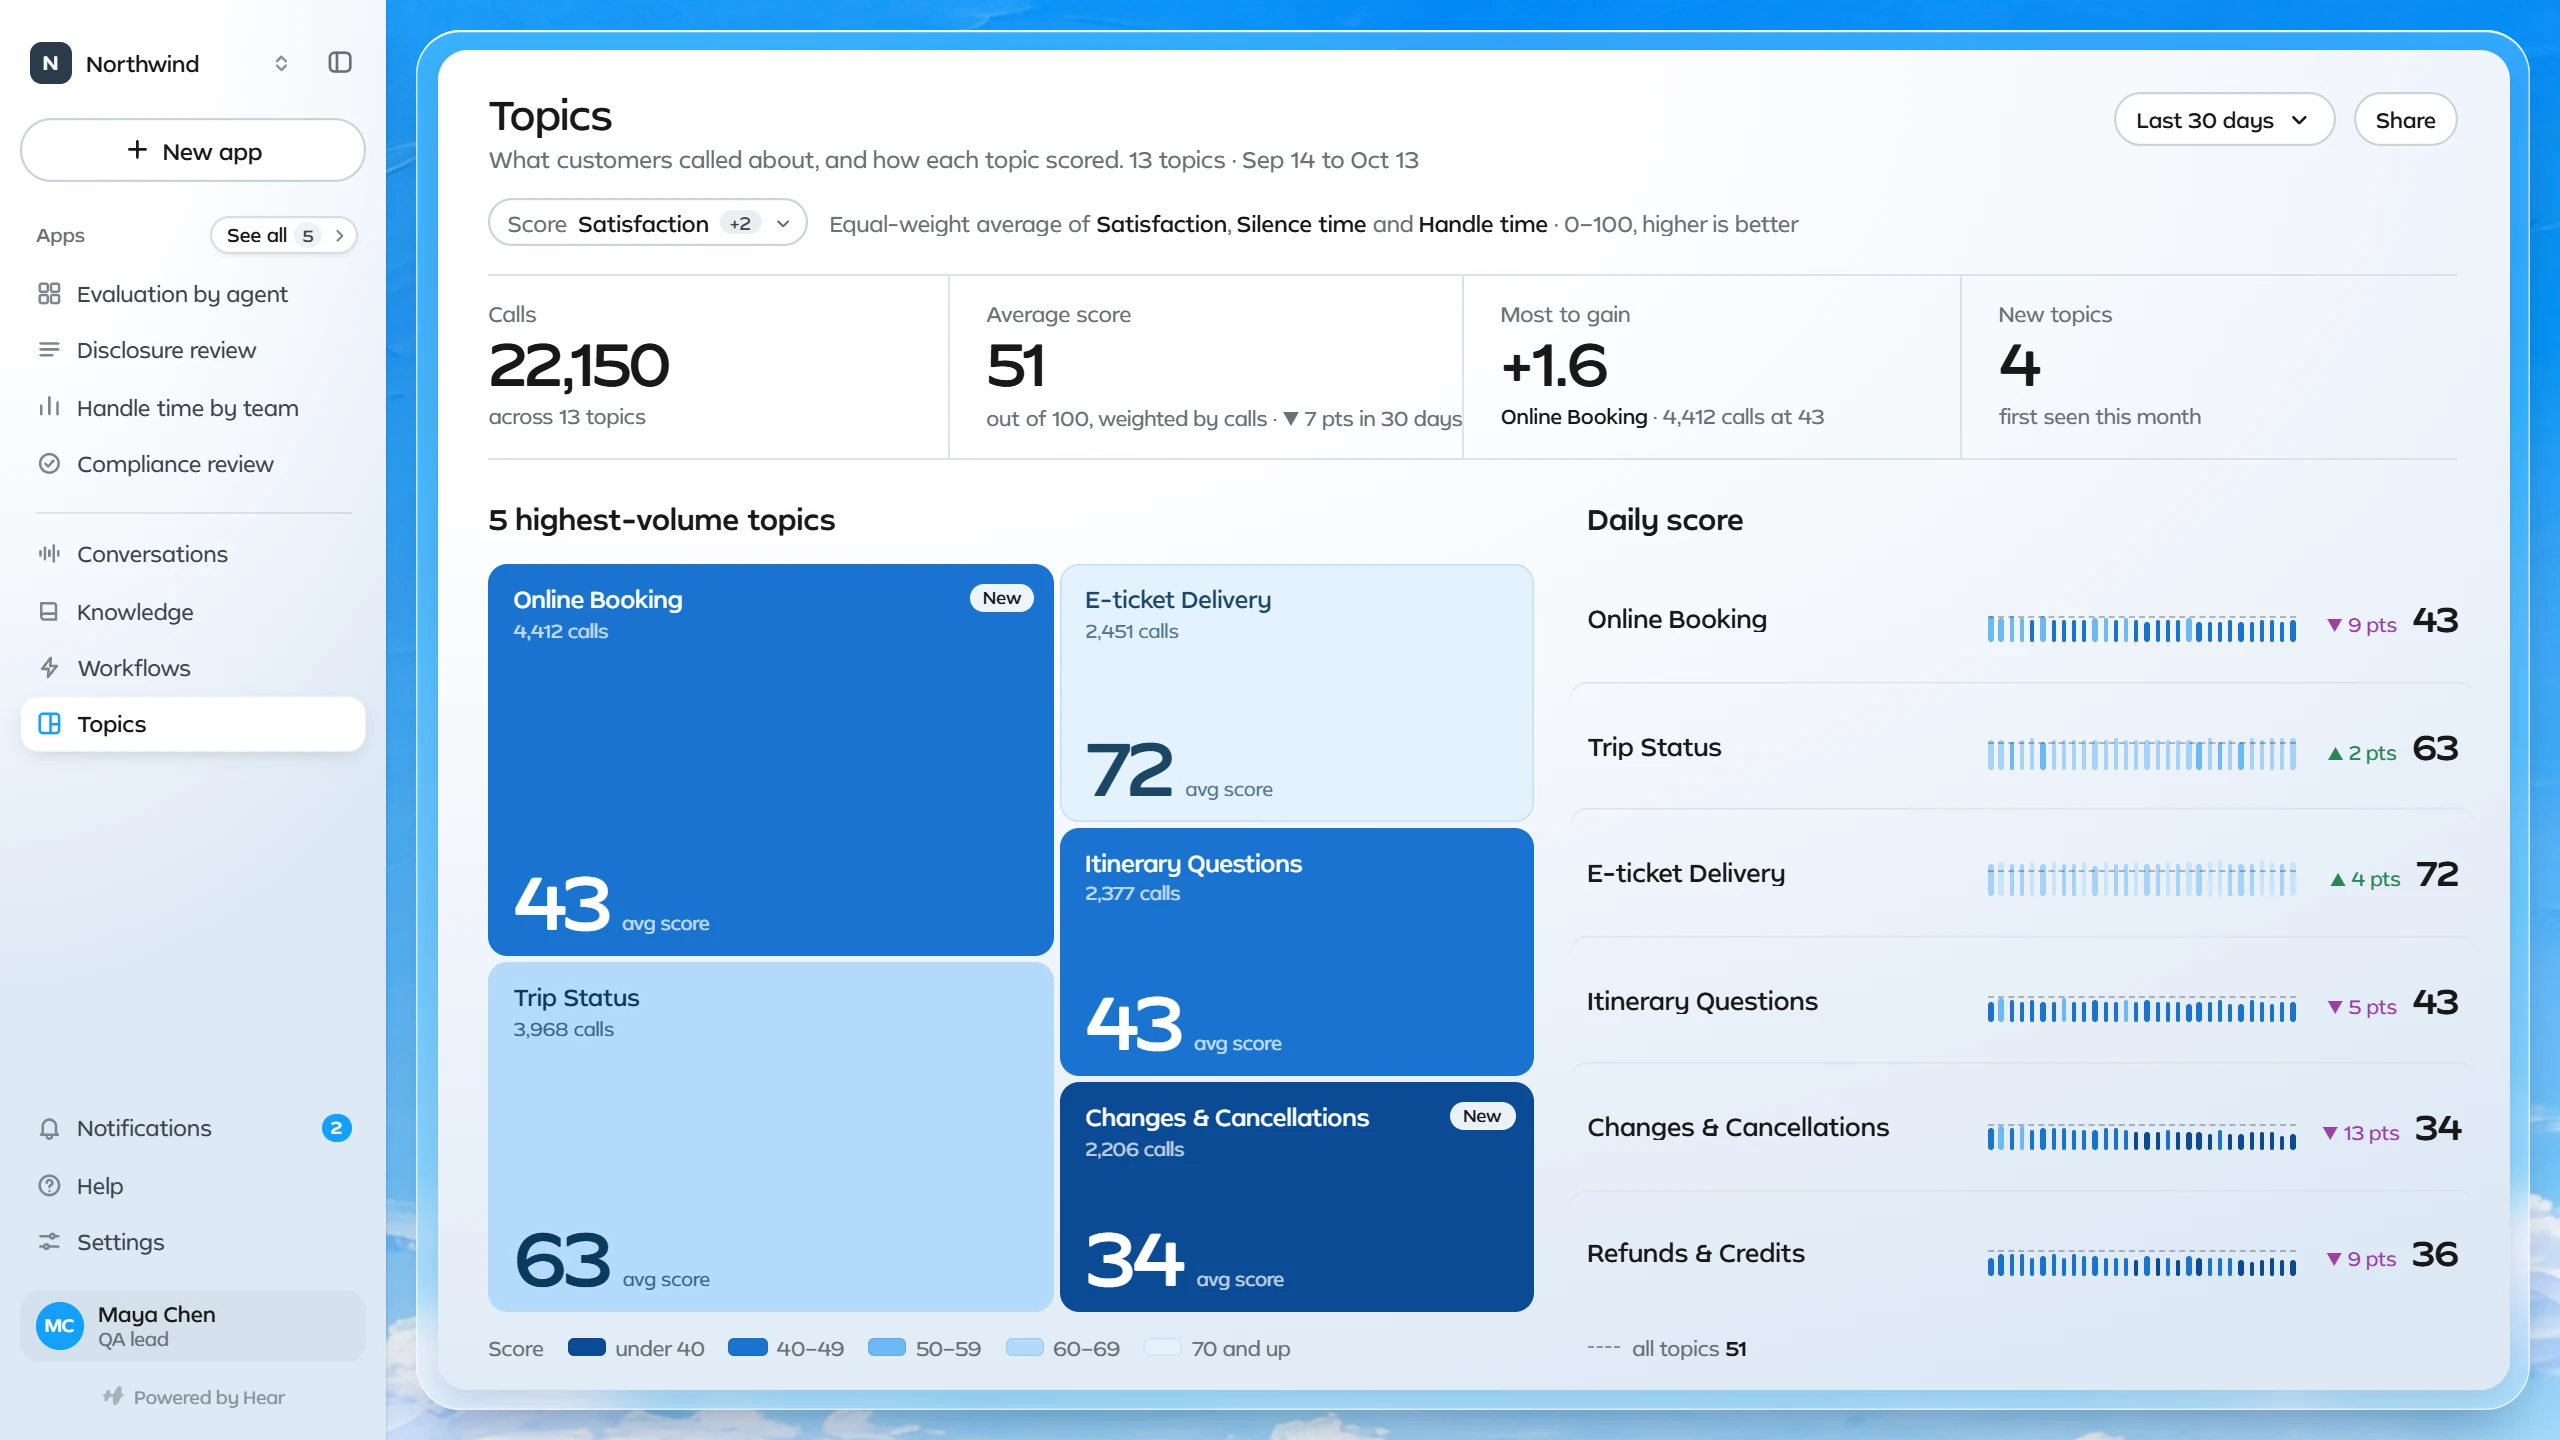
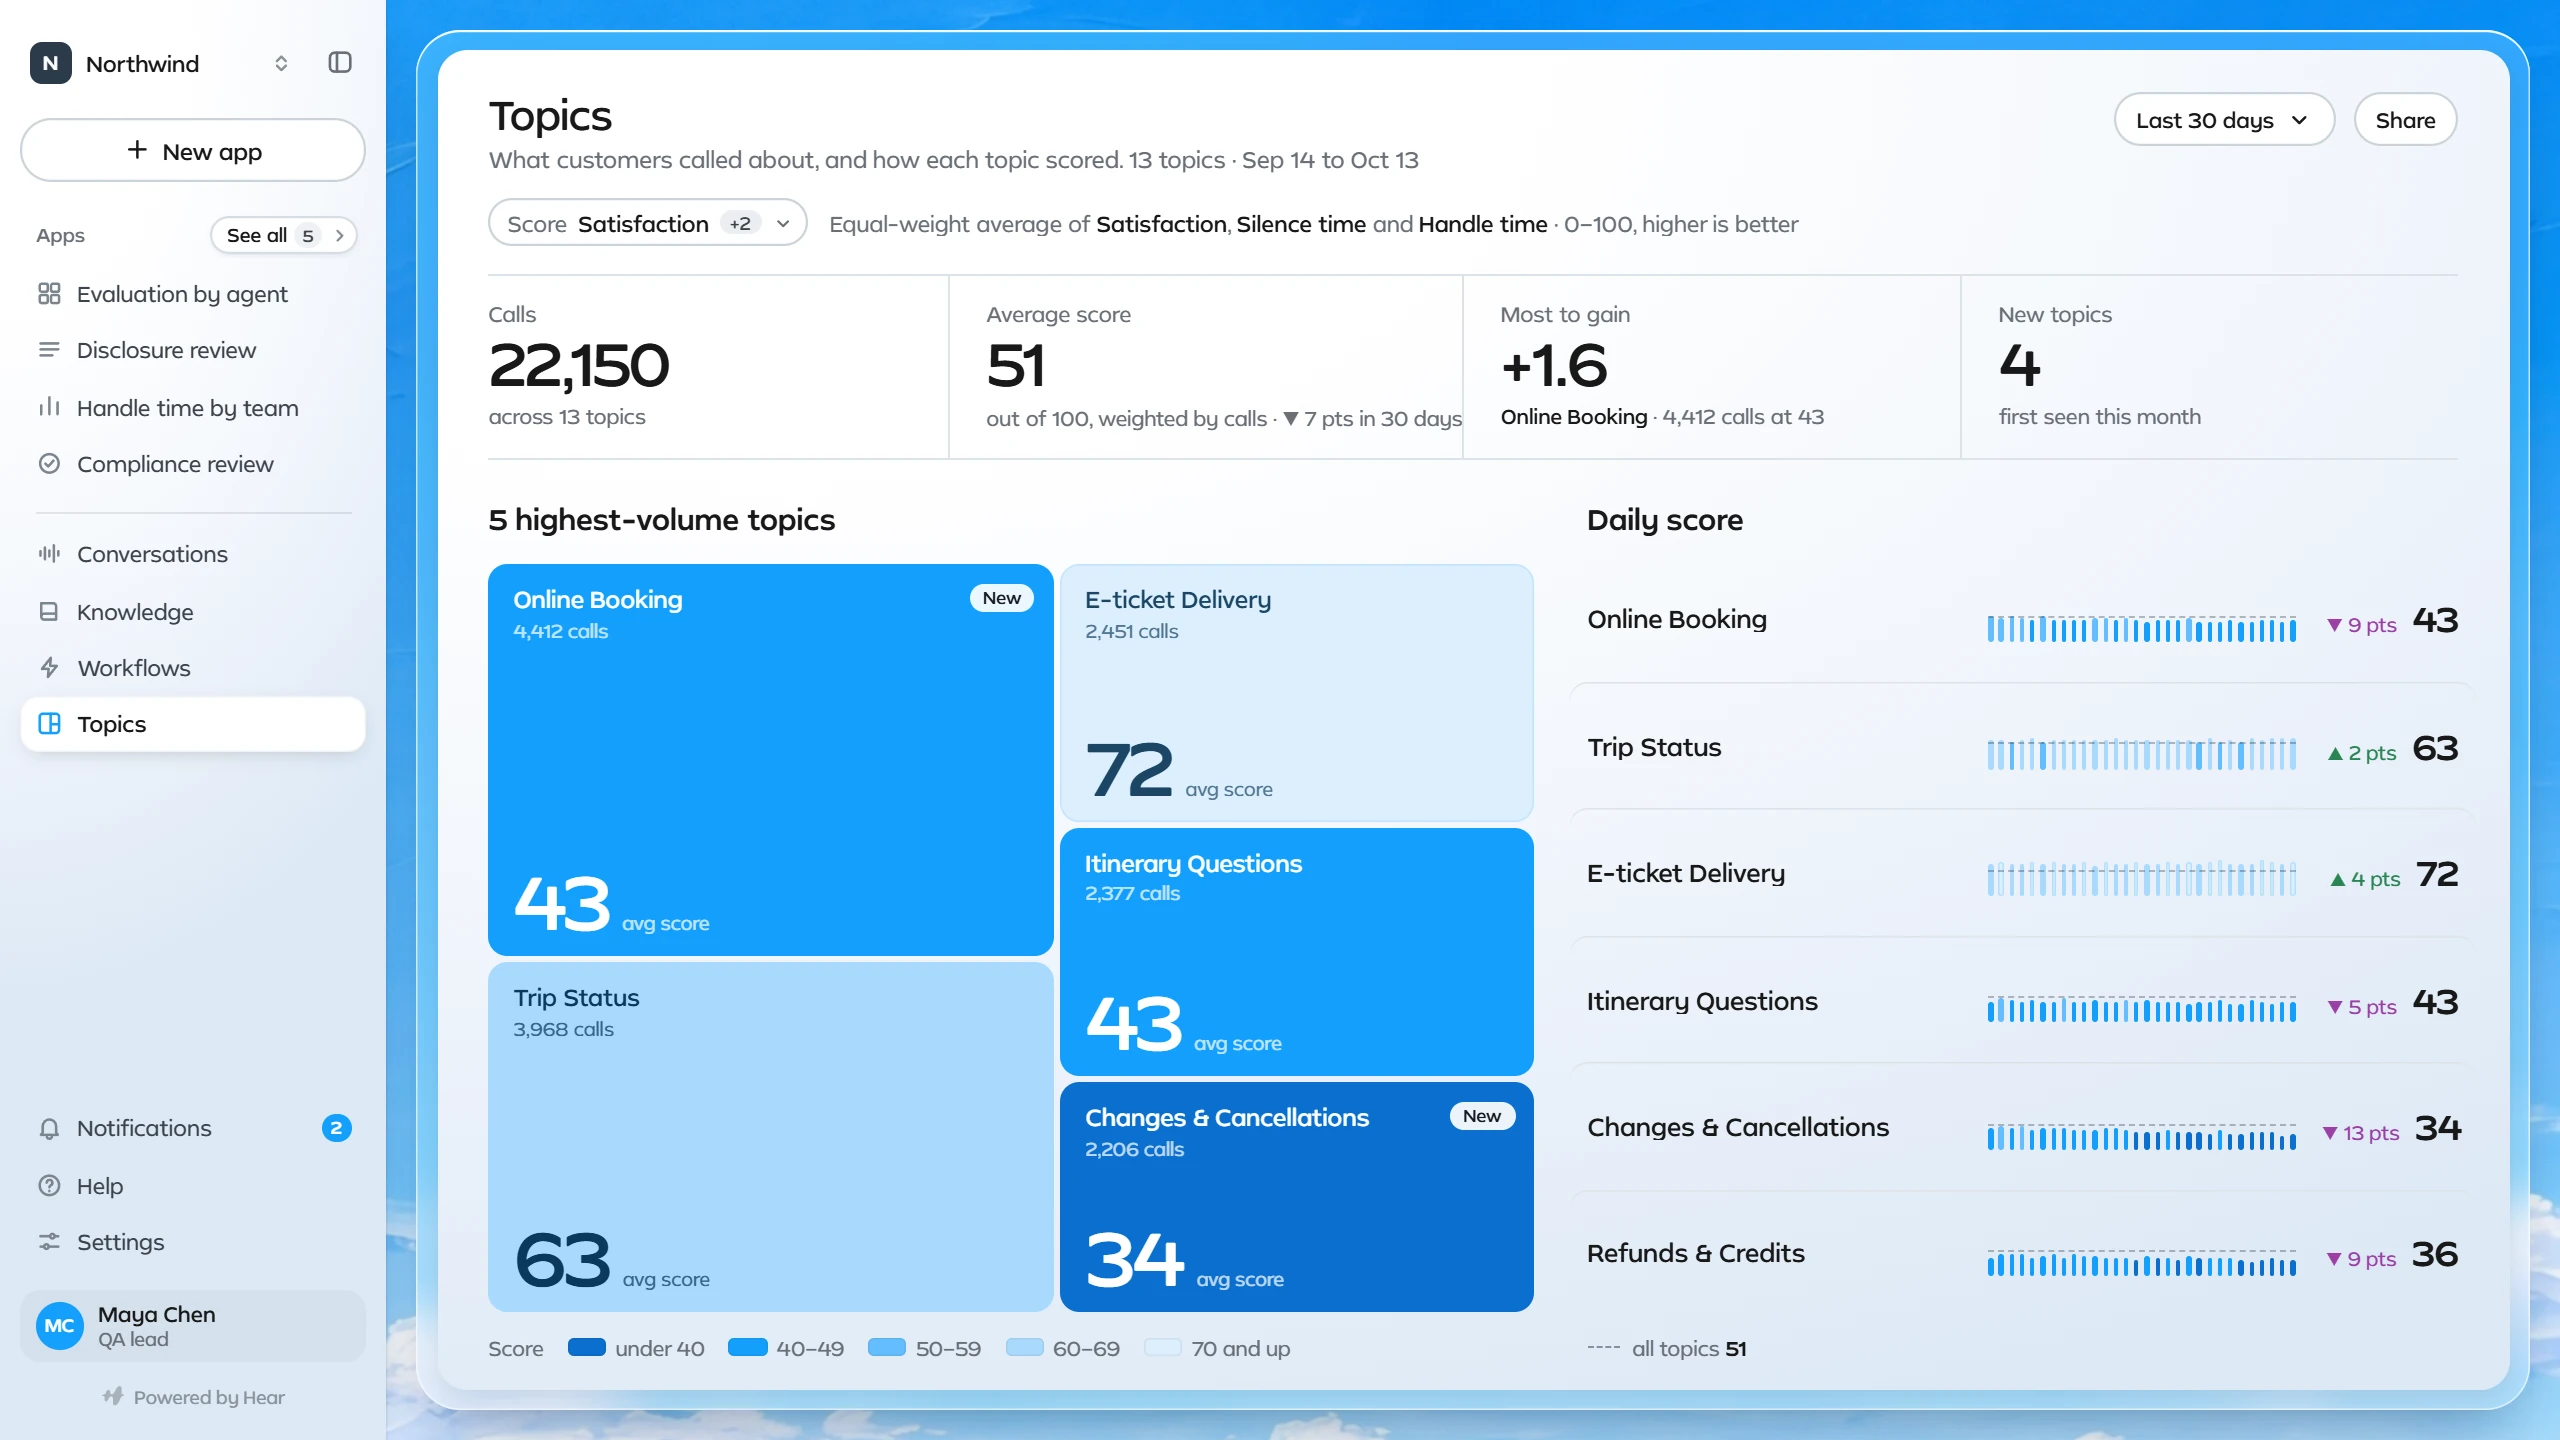
Topics map: the product's own blues, no invented shades
The five steps of the map and of the daily bars used a private ramp with navy
tones that no other screen has. They are now Deep Blue and Hear Blue from the
palette plus the three tints of the score scale the other screens use, with
that scale's text colours. The two Topics stills on the inner pages are
captured again.

diff --git a/hear-v7/plan/topics/topics.css b/hear-v7/plan/topics/topics.css
@@ -60,7 +60,7 @@
 .tp-tile.hot .tb,.tp-tile:focus-visible .tb{outline:2px solid var(--ink);outline-offset:-1px}
 .tp-tile.on .tb,.tp-tile.on .dl{outline:2.5px solid var(--ink);outline-offset:-1px}
 /* a topic opened into the three parameters behind its score */
-.tp-tile .dl{display:flex;flex-direction:column;gap:8px;padding:11px;background:#F4F8FC;box-shadow:inset 0 0 0 1.5px var(--ink);opacity:0;pointer-events:none;transition:opacity .12s}
+.tp-tile .dl{display:flex;flex-direction:column;gap:8px;padding:11px;background:#F3F7FC;box-shadow:inset 0 0 0 1.5px var(--ink);opacity:0;pointer-events:none;transition:opacity .12s}
 .tp-tile.open{z-index:2}
 .tp-tile.open .dl{opacity:1;pointer-events:auto}
 .tp-tile.open .tb{opacity:0}
@@ -96,7 +96,7 @@
 .tp-row small b{font-weight:500;color:var(--ink)}
 .tp-bars{position:relative;display:flex;align-items:flex-end;gap:2px;height:32px}
 .tp-bars i{flex:1;min-height:2px;border-radius:1.5px;transition:height .27s cubic-bezier(.3,.7,.3,1),background-color .2s}
-.tp-bars .b2{background:#C3E3FD}
+.tp-bars .b2{background:#A9DAFE}
 .tp-bars .ref{position:absolute;left:-4px;right:-4px;height:0;border-top:1.5px dashed rgba(24,36,48,.38);transition:bottom .27s ease-in-out}
 .tp-row .sc{text-align:right;font-variant-numeric:tabular-nums}
 .tp-row .sc b{font-size:19px;font-weight:600;letter-spacing:-.02em}
@@ -249,11 +249,14 @@
    understood this way; better one hue, otherwise it cannot be read". The map is one blue in five steps, and the step is the
    need for attention: the lower the score, the deeper the blue, so a large weak topic is the heaviest thing on the screen.
    It is the wireframe's own rule (there the lowest band is the darkest grey). Rises and falls in the list keep green and pink. */
-.stage:not(.lofi) .tp .b1{background:#0B4A94;color:#fff;box-shadow:none}
-.stage:not(.lofi) .tp .b2{background:#1A73D1;color:#fff;box-shadow:none}
-.stage:not(.lofi) .tp .b3{background:#6DB9F6;color:#06305A;box-shadow:none}
-.stage:not(.lofi) .tp .b4{background:#B4DAFB;color:#0B3A5E;box-shadow:none}
-.stage:not(.lofi) .tp .b5{background:#E3F1FD;color:#1B4666;box-shadow:inset 0 0 0 1px rgba(19,100,180,.14)}
+/* Owner, 23.11.2026: "the blue on this screen differs from the blue on the other screens; you cannot just invent another shade".
+   The five steps are the product's own blues and nothing else: Deep Blue and Hear Blue from the palette, then the three tints of
+   the score scale every other screen uses (.sx .l4, .l3, .l2 in screens.css), with that scale's own text colours. */
+.stage:not(.lofi) .tp .b1{background:#0B6FCF;color:#fff;box-shadow:none}
+.stage:not(.lofi) .tp .b2{background:#139FFD;color:#fff;box-shadow:none}
+.stage:not(.lofi) .tp .b3{background:#63BEFE;color:#06365C;box-shadow:none}
+.stage:not(.lofi) .tp .b4{background:#A9DAFE;color:#0B3A5E;box-shadow:none}
+.stage:not(.lofi) .tp .b5{background:#DCEFFE;color:#1B4666;box-shadow:inset 0 0 0 1px rgba(19,159,253,.14)}
 .stage:not(.lofi) .tp-row .sc small.dn{color:#9A3FA5}
 .stage:not(.lofi) .tp-row .sc small.up{color:#2A8554}
 .stage:not(.lofi) .tp-tile .tb em{background:rgba(255,255,255,.92);color:#171b20;box-shadow:none;opacity:1}
@@ -266,11 +269,11 @@
 .stage:not(.lofi) .tp-bars{gap:4px;height:32px}
 .stage:not(.lofi) .tp-bars i{flex:1 1 0;min-width:0;border-radius:2px;box-shadow:none}
 /* the 30 days follow the map's rule: a low day is the deep blue, a good day is pale */
-.stage:not(.lofi) .tp-bars .b1{background:#0B4A94;box-shadow:none}
-.stage:not(.lofi) .tp-bars .b2{background:#1A73D1;box-shadow:none}
-.stage:not(.lofi) .tp-bars .b3{background:#6DB9F6;box-shadow:none}
-.stage:not(.lofi) .tp-bars .b4{background:#A6D2F9;box-shadow:none}
-.stage:not(.lofi) .tp-bars .b5{background:#C9E4FB;box-shadow:none}
+.stage:not(.lofi) .tp-bars .b1{background:#0B6FCF;box-shadow:none}
+.stage:not(.lofi) .tp-bars .b2{background:#139FFD;box-shadow:none}
+.stage:not(.lofi) .tp-bars .b3{background:#63BEFE;box-shadow:none}
+.stage:not(.lofi) .tp-bars .b4{background:#A9DAFE;box-shadow:none}
+.stage:not(.lofi) .tp-bars .b5{background:#DCEFFE;box-shadow:inset 0 0 0 1px rgba(19,159,253,.2)}
 .stage:not(.lofi) .tp-bars .ref{left:0;right:0;border-top:1px dashed rgba(24,36,48,.3)}
 /* with the chat open the chart is narrow: every second day, so the lines keep their air */
 .stage:not(.lofi).ask-on .tp-bars{gap:3px}

diff --git a/hear-v7/plan/studio.html b/hear-v7/plan/studio.html
@@ -138,7 +138,7 @@ svg.i{width:18px;height:18px;flex:none;fill:none;stroke:currentColor;stroke-widt
 .bg,.cloud,.tile{-webkit-user-drag:none;user-select:none;-webkit-user-select:none;pointer-events:none}
 </style>
 <link rel="stylesheet" href="login/studio-composer.css">
-<link rel="stylesheet" href="topics/topics.css?v=10">
+<link rel="stylesheet" href="topics/topics.css?v=11">
 <link rel="stylesheet" href="screens/screens.css?v=16">
 
 <div class="stage s1 v2 brand-powered" id="stage">
